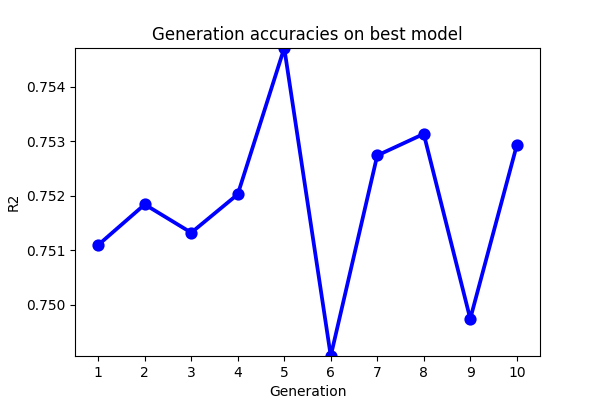
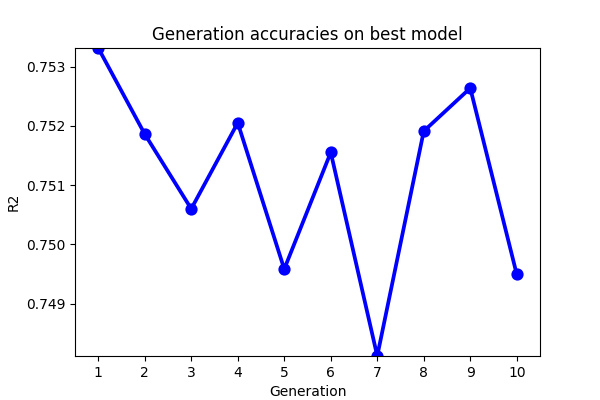
ensured that the run_best_chromo_on_other_ML func is using the selected features from the gen alg

diff --git a/thesis/S2/data_analysis.py b/thesis/S2/data_analysis.py
@@ -710,7 +710,6 @@ class C_gen_alg:
 
         #class_names = list(next(iter(dataDict.values()))[class_main_key].keys())
         #for i, name in enumerate(class_names): #for each class name
-
     
     def gen_alg_on_best_model(self, features_key, class_main_key, class_name):
         #chromo_df_bc,score_bc=generations(data_bc,label_bc)
@@ -718,6 +717,8 @@ class C_gen_alg:
         #whipe the file if it exists
         with open(f'{self.score_file_path}', 'w') as f:
             f.write(f"--- Model scores for features: {features_key} ---\n") 
+        
+        self.x_train, self.x_test, self.y_train, self.y_test, self.cond_train, self.cond_test, keys, trait_key  = self.tnt.make_training_n_test_sets(features_key, class_main_key, class_name) 
         self.find_best_model(features_key, class_main_key, class_name)
 
         n_feat = self.x_train.shape[1] 
@@ -727,8 +728,8 @@ class C_gen_alg:
  
         print("Best feature subset found:", np.where(self.best_chromo_x_overall)[0])
         #translate the best chromo to the feature names
-        feature_names = np.array(self.tnt.extract_features(features_key)[1])
-        best_features = feature_names[self.best_chromo_x_overall]
+        self.feature_names = np.array(self.tnt.extract_features(features_key)[1])
+        best_features = self.feature_names[self.best_chromo_x_overall]
         print("Best feature names:", best_features)
         print("Corresponding R2:", best_score[0]) 
 
@@ -742,18 +743,13 @@ class C_gen_alg:
         #
     #func with the best_chromo_x_overall, run each ML model using the  best_chromo_x_overall
     def run_best_chromo_on_other_ML(self, features_key, class_main_key, class_name): 
-        #write this func 
-        full_x, feature_names = self.tnt.extract_features(features_key)
-        feature_names = np.array(feature_names) 
+        
         selected_indices = np.where(self.best_chromo_x_overall)[0]
-        selected_features = feature_names[self.best_chromo_x_overall]
+        selected_features = self.feature_names[self.best_chromo_x_overall]
 
         # Subset the data to selected features
-        x_selected = full_x[:, selected_indices]
-
-        # Re-split using selected features
-        self.x_train, self.x_test, self.y_train, self.y_test, self.cond_train, self.cond_test, keys, trait_key = \
-            self.tnt.make_training_n_test_sets(features_key, class_main_key, class_name)  
+        self.x_train = self.x_train[:, selected_indices]
+        self.x_test = self.x_test[:, selected_indices]  
 
         # Train and evaluate all models on selected features
         model_obj = C_Dession_trees(self.dataDict, self.x_train, self.x_test, self.y_train, self.y_test)
@@ -768,10 +764,9 @@ class C_gen_alg:
         print("Finished evaluating all models on best feature subset.")  
 
     
-    def find_best_model(self, features_key, class_main_key, name): 
+    def find_best_model(self, features_key, class_main_key, name):  
         max_cross_val_mean = 0
 
-        self.x_train, self.x_test, self.y_train, self.y_test, self.cond_train, self.cond_test, keys, trait_key  = self.tnt.make_training_n_test_sets(features_key, class_main_key, name) 
         model_obj = C_Dession_trees(dataDict, self.x_train, self.x_test, self.y_train, self.y_test) 
         for i, model in enumerate(model_obj.models): #        self.models = ["RF", "AB", "GB", "DT"]
  
